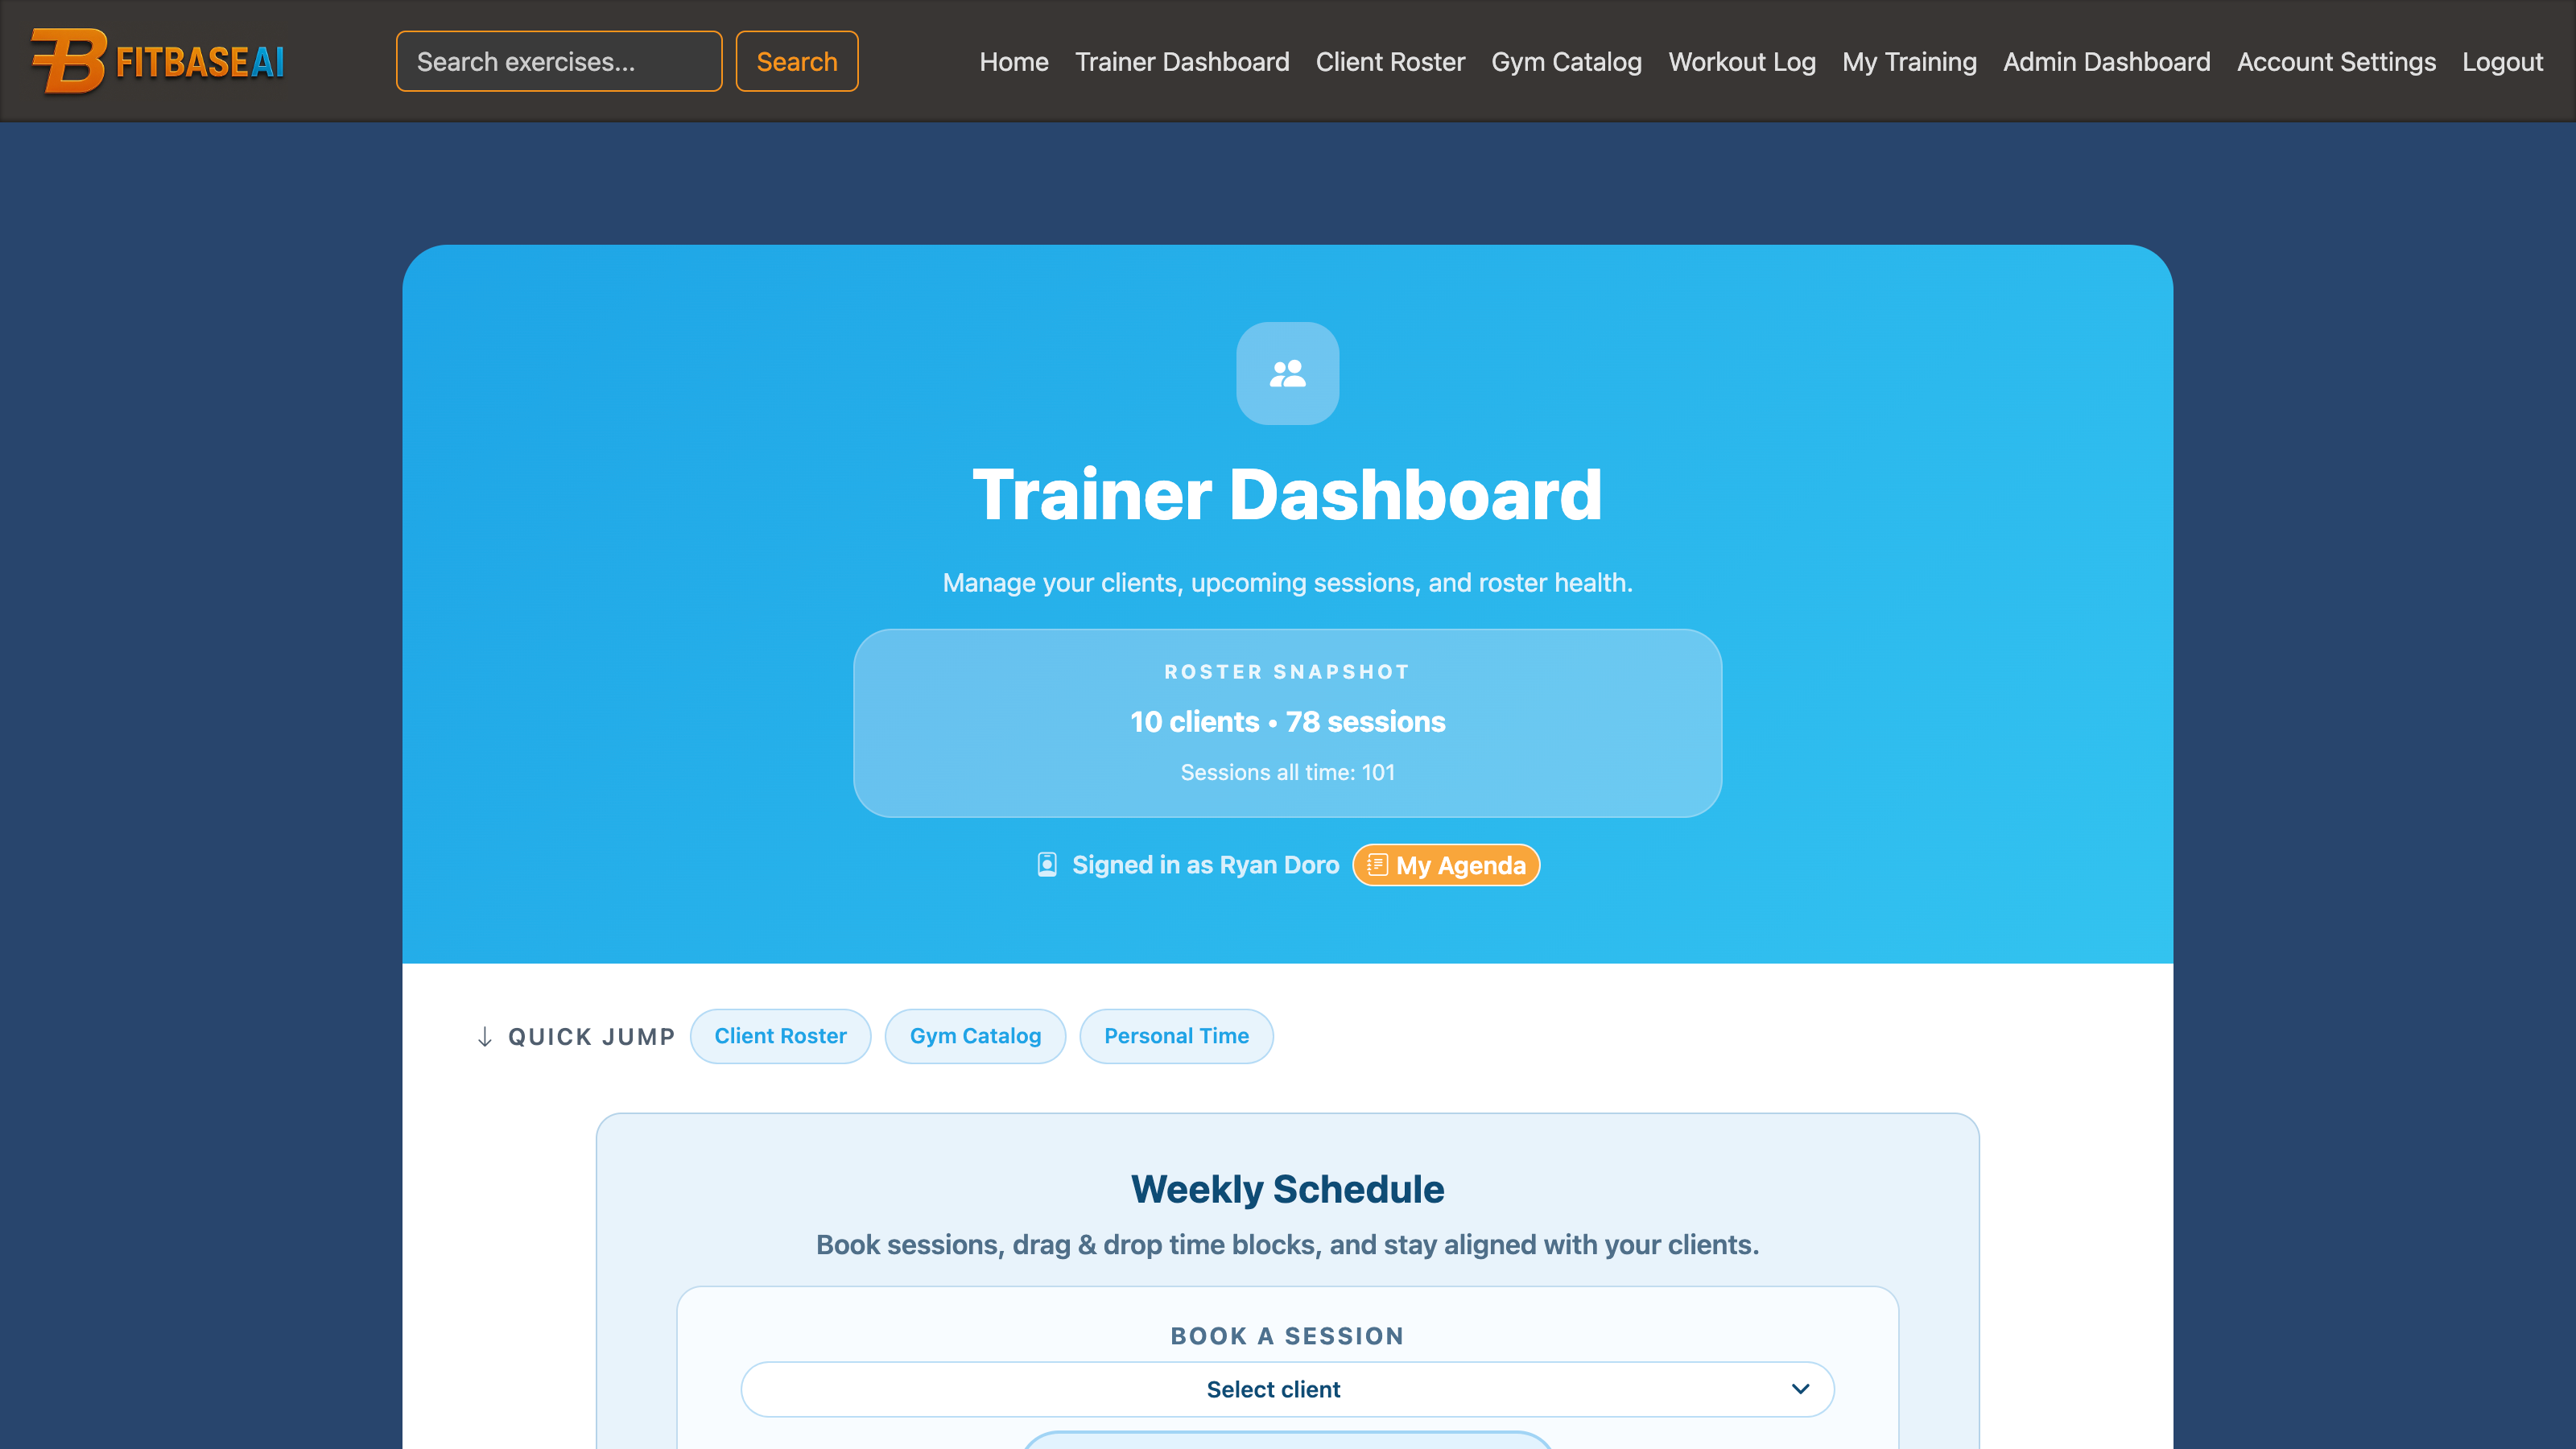
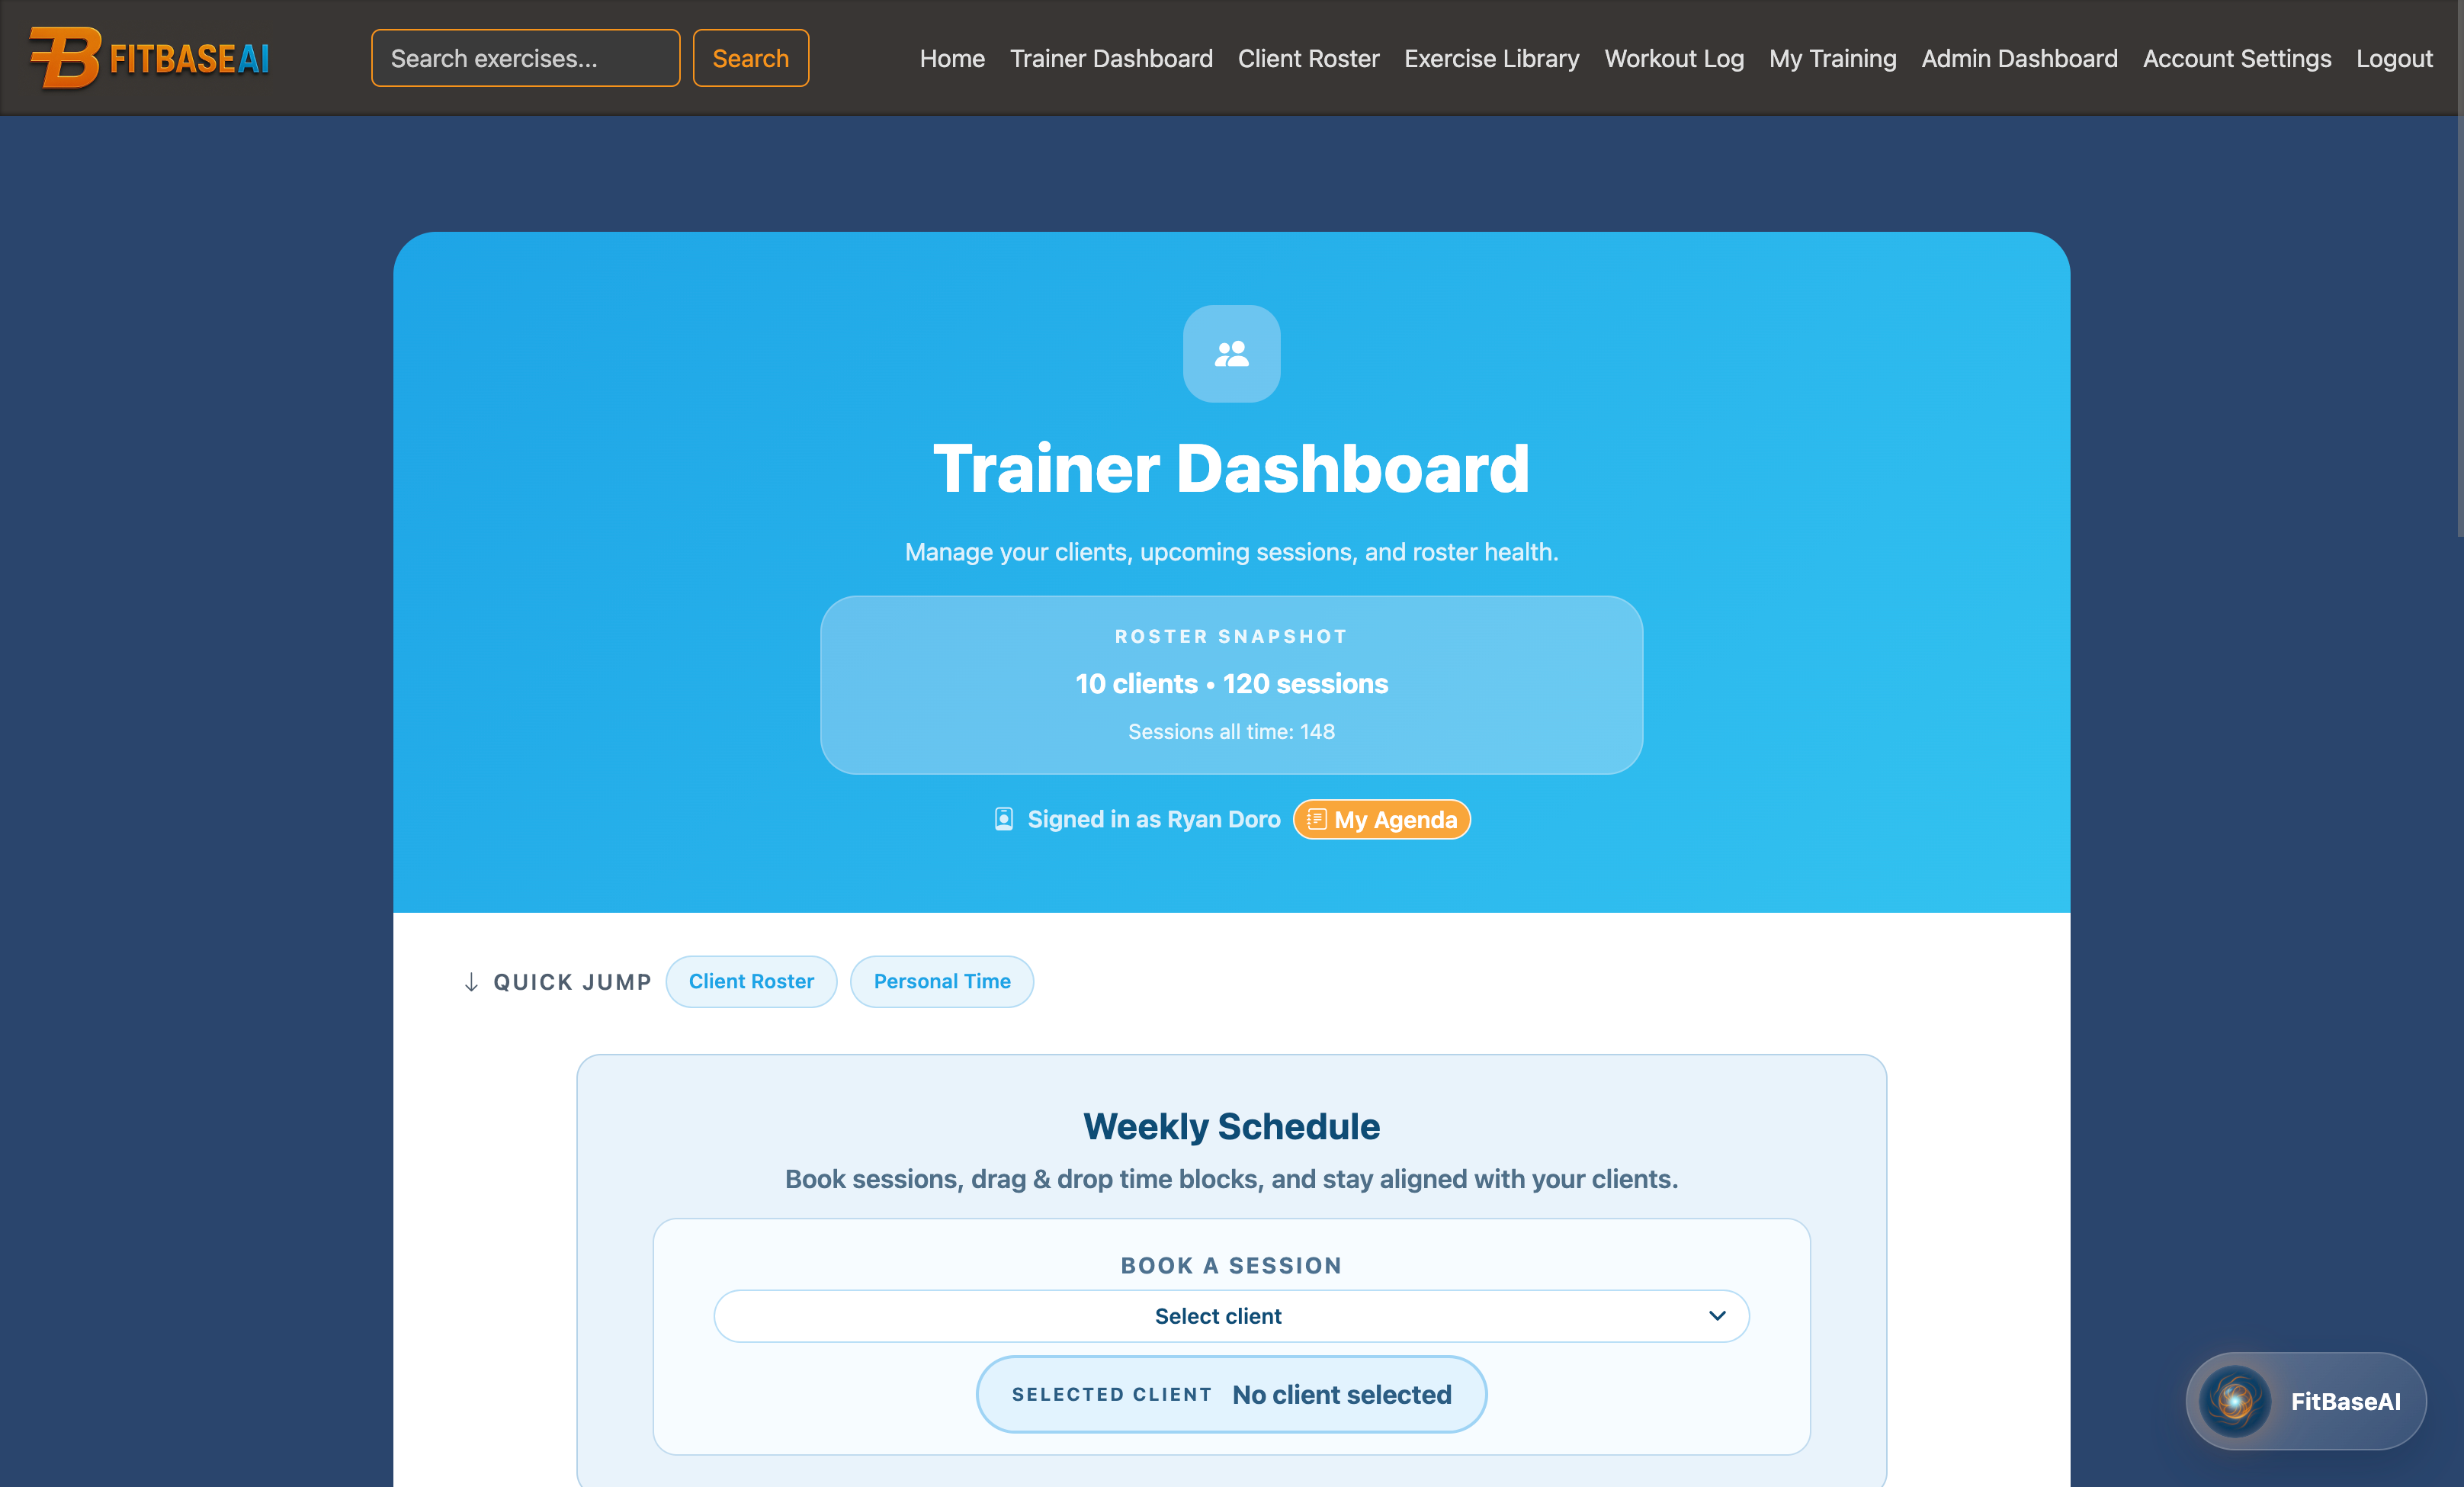
Update homepage headline and portfolio images

diff --git a/index.html b/index.html
@@ -24,9 +24,9 @@
         <section class="hero" style="--hero-image: url('images/personal-portrait-index.jpg');" aria-labelledby="hero-title">
           <div class="hero-content">
             <h1 id="hero-title">
-              <span class="hero-title-left">Health Coach</span>
+              <span class="hero-title-left">Health Expert</span>
               <span class="hero-title-divider" aria-hidden="true"></span>
-              <span class="hero-title-right">Software Engineer</span>
+              <span class="hero-title-right">Fitness Technology</span>
             </h1>
           </div>
         </section>